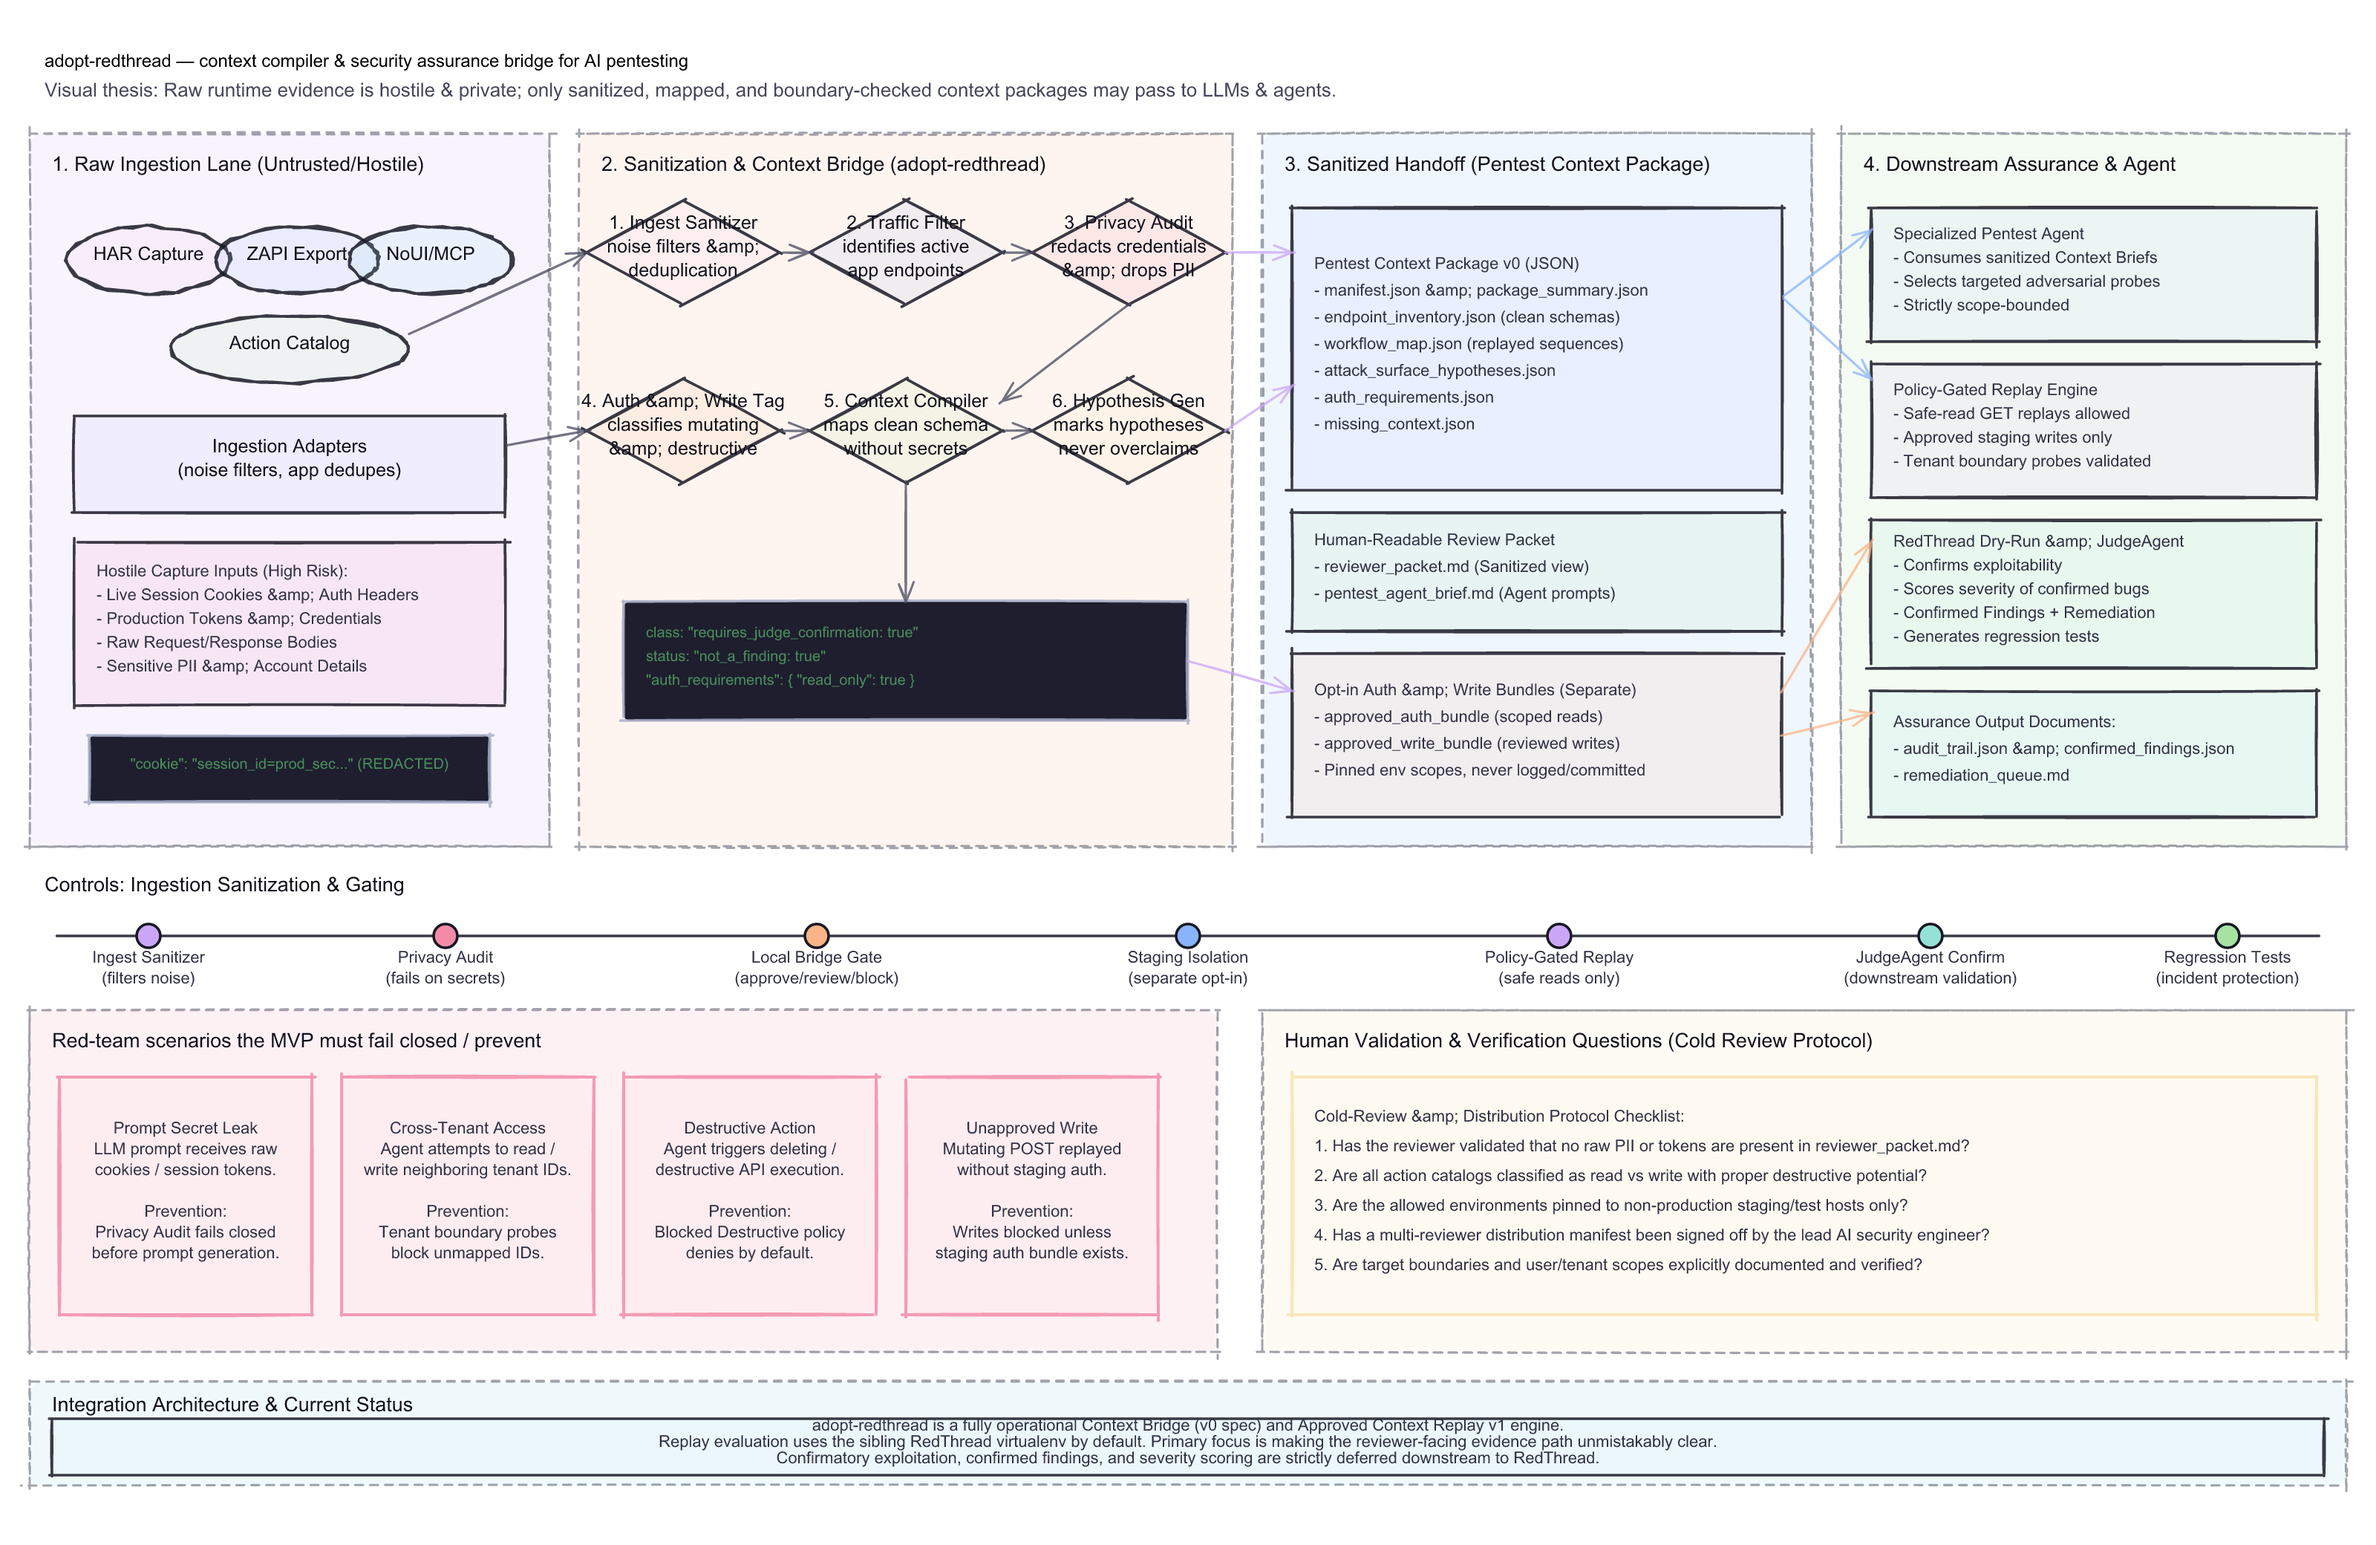
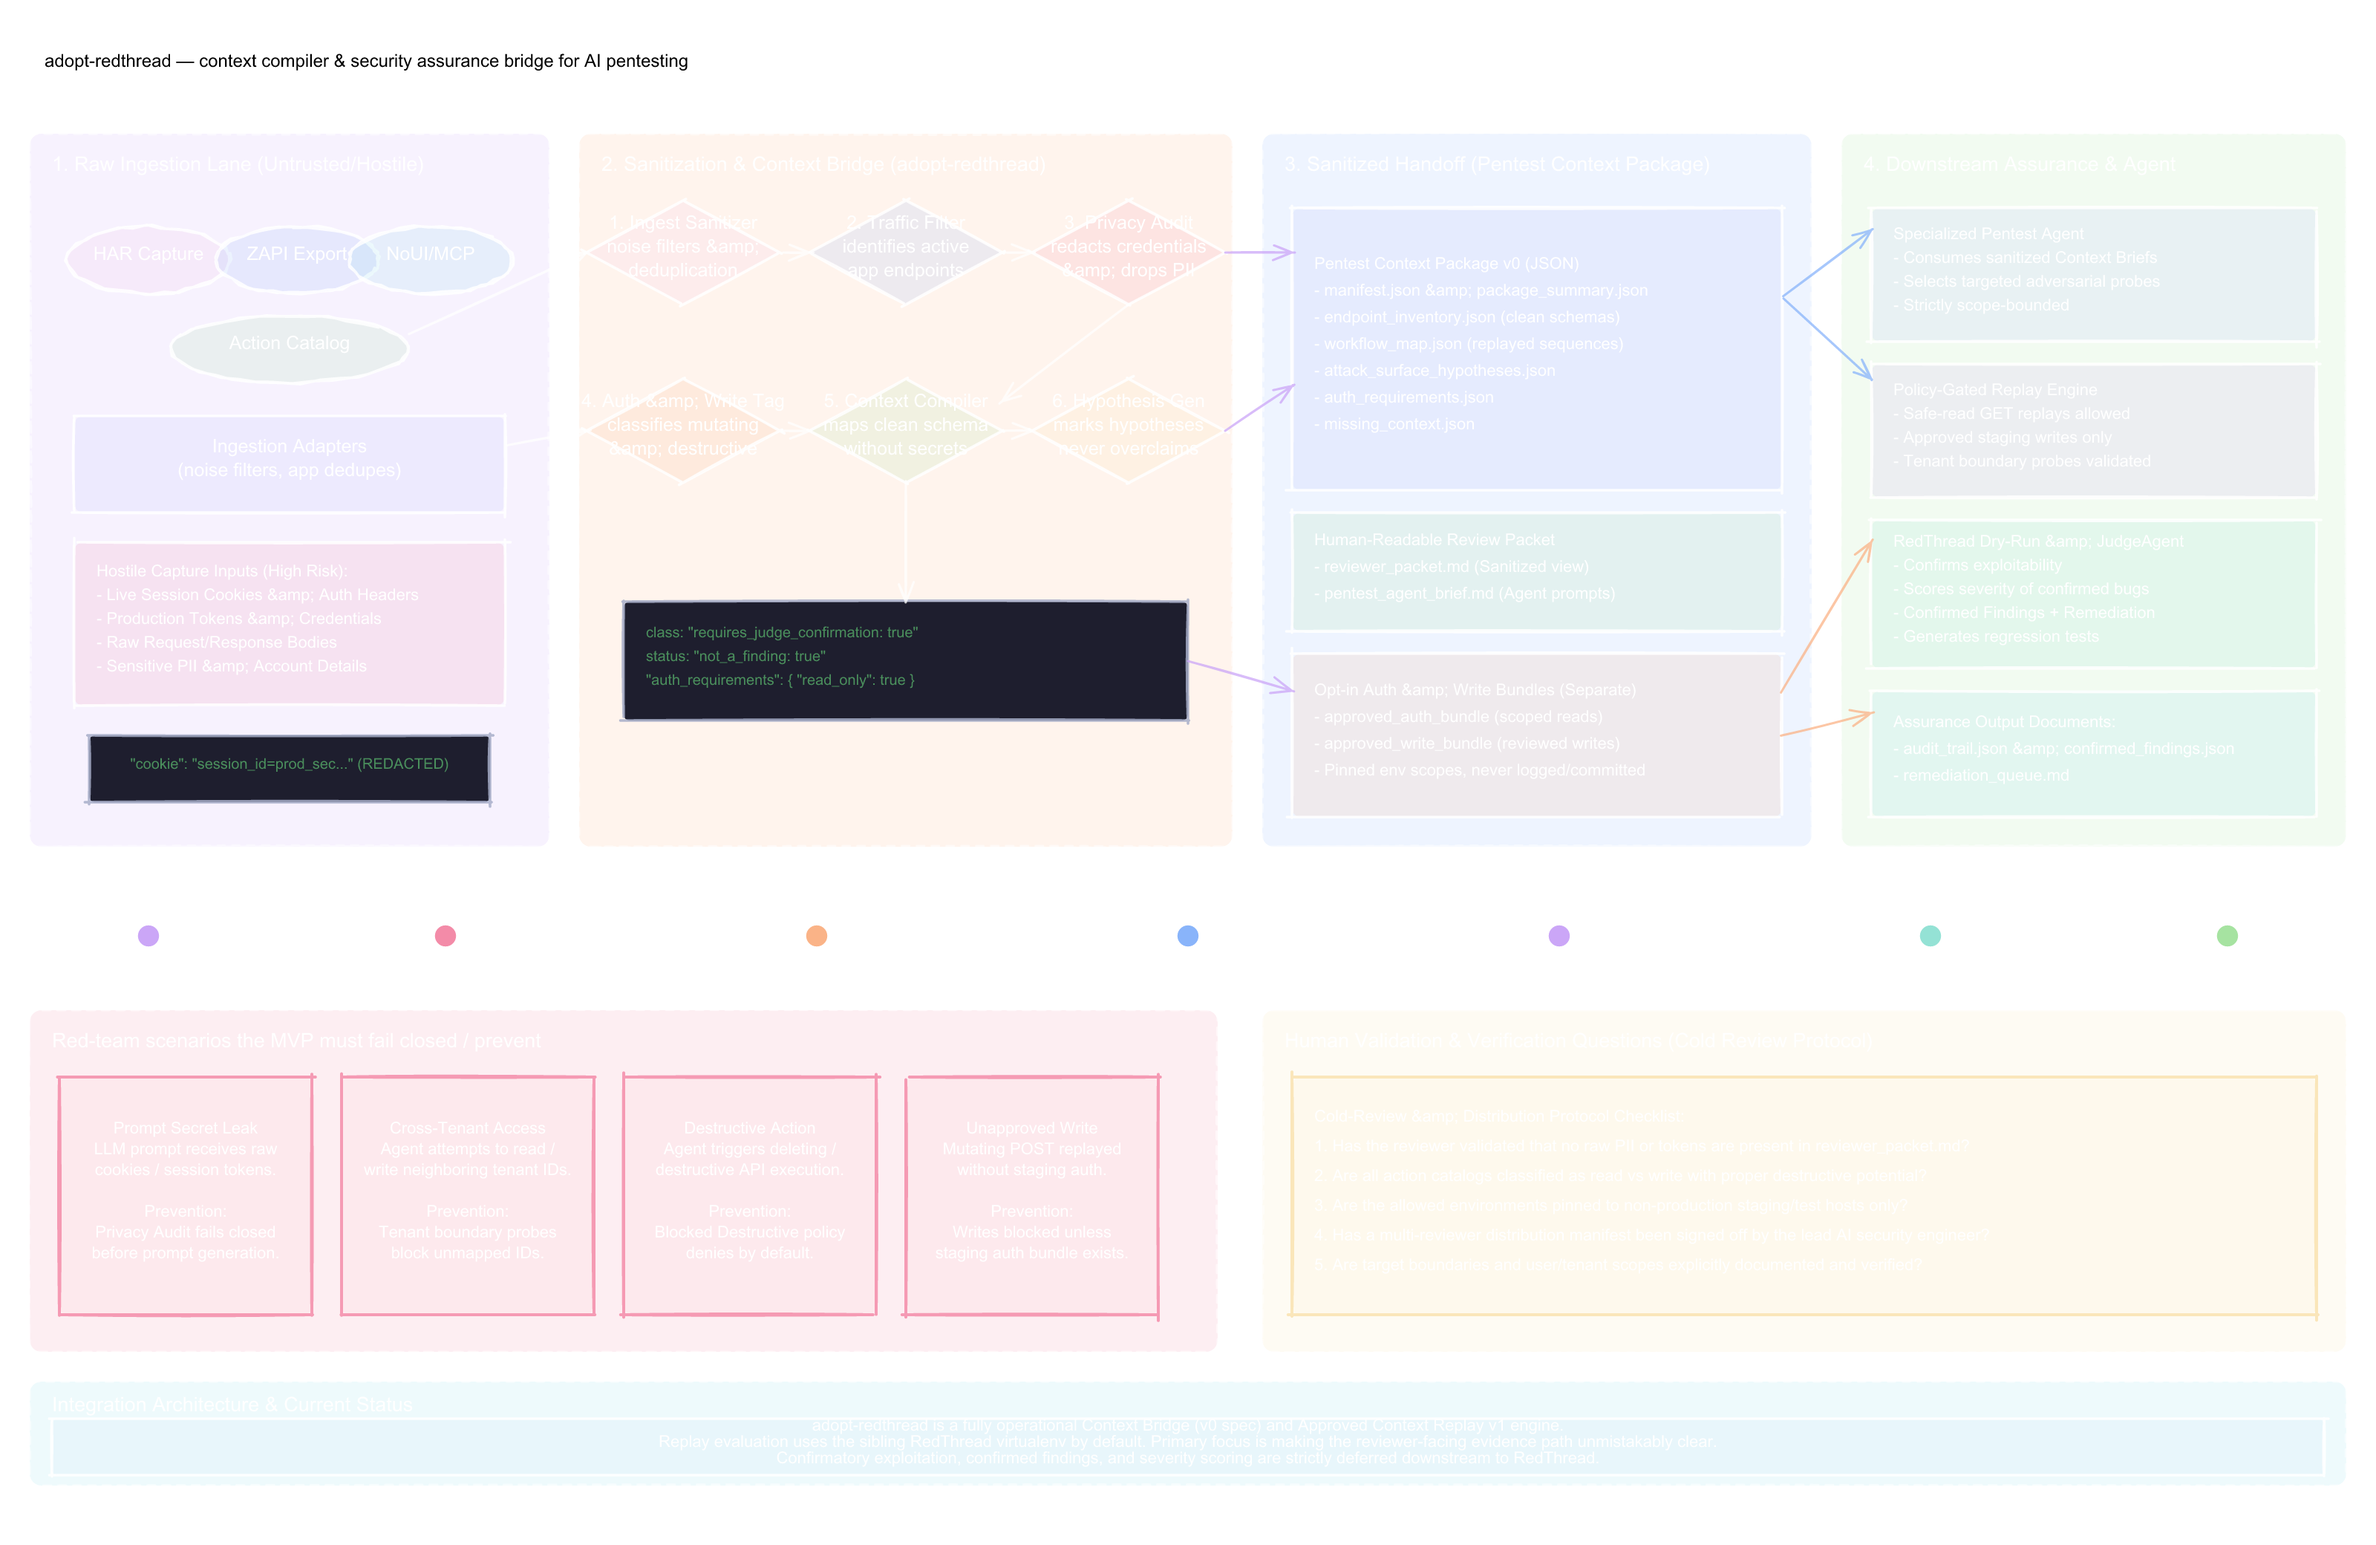
style: update diagram stroke colors to white for better visibility

diff --git a/scripts/generate_diagram.py b/scripts/generate_diagram.py
@@ -138,7 +138,7 @@ def make_excalidraw_rect(node_id, text, cx, cy, w, h, bg_color, textAlign="cente
         "width": w,
         "height": h,
         "angle": 0,
-        "strokeColor": "#181825",
+        "strokeColor": "#ffffff",
         "backgroundColor": bg_color,
         "fillStyle": "solid",
         "strokeWidth": 2,
@@ -175,7 +175,7 @@ def make_excalidraw_rect(node_id, text, cx, cy, w, h, bg_color, textAlign="cente
         "width": text_w,
         "height": text_height,
         "angle": 0,
-        "strokeColor": "#181825",
+        "strokeColor": "#ffffff",
         "backgroundColor": "transparent",
         "fillStyle": "solid",
         "strokeWidth": 1,
@@ -220,7 +220,7 @@ def make_excalidraw_ellipse(node_id, text, cx, cy, w, h, bg_color):
         "width": w,
         "height": h,
         "angle": 0,
-        "strokeColor": "#181825",
+        "strokeColor": "#ffffff",
         "backgroundColor": bg_color,
         "fillStyle": "solid",
         "strokeWidth": 2,
@@ -250,7 +250,7 @@ def make_excalidraw_ellipse(node_id, text, cx, cy, w, h, bg_color):
         "width": w - 20,
         "height": text_height,
         "angle": 0,
-        "strokeColor": "#181825",
+        "strokeColor": "#ffffff",
         "backgroundColor": "transparent",
         "fillStyle": "solid",
         "strokeWidth": 1,
@@ -295,7 +295,7 @@ def make_excalidraw_diamond(node_id, text, cx, cy, w, h, bg_color):
         "width": w,
         "height": h,
         "angle": 0,
-        "strokeColor": "#181825",
+        "strokeColor": "#ffffff",
         "backgroundColor": bg_color,
         "fillStyle": "solid",
         "strokeWidth": 2,
@@ -324,7 +324,7 @@ def make_excalidraw_diamond(node_id, text, cx, cy, w, h, bg_color):
         "width": w - 30,
         "height": text_height,
         "angle": 0,
-        "strokeColor": "#181825",
+        "strokeColor": "#ffffff",
         "backgroundColor": "transparent",
         "fillStyle": "solid",
         "strokeWidth": 1,
@@ -353,7 +353,7 @@ def make_excalidraw_diamond(node_id, text, cx, cy, w, h, bg_color):
     
     return [diamond_elem, text_elem]
 
-def make_excalidraw_arrow(arrow_id, x1, y1, x2, y2, strokeColor="#45475a"):
+def make_excalidraw_arrow(arrow_id, x1, y1, x2, y2, strokeColor="#ffffff"):
     seed = random.randint(100000, 999999)
     dx = x2 - x1
     dy = y2 - y1
@@ -394,7 +394,7 @@ def make_excalidraw_arrow(arrow_id, x1, y1, x2, y2, strokeColor="#45475a"):
         "endArrowhead": "arrow"
     }
 
-def make_excalidraw_line(line_id, x1, y1, x2, y2, strokeColor="#45475a", strokeStyle="solid"):
+def make_excalidraw_line(line_id, x1, y1, x2, y2, strokeColor="#ffffff", strokeStyle="solid"):
     seed = random.randint(100000, 999999)
     dx = x2 - x1
     dy = y2 - y1
@@ -447,7 +447,7 @@ def make_excalidraw_boundary(boundary_id, label, x, y, w, h):
         "width": w,
         "height": h,
         "angle": 0,
-        "strokeColor": "#585b70",
+        "strokeColor": "#ffffff",
         "backgroundColor": "transparent",
         "fillStyle": "solid",
         "strokeWidth": 1.5,
@@ -474,7 +474,7 @@ def make_excalidraw_boundary(boundary_id, label, x, y, w, h):
         "width": w - 30,
         "height": 20,
         "angle": 0,
-        "strokeColor": "#11111b",
+        "strokeColor": "#ffffff",
         "backgroundColor": "transparent",
         "fillStyle": "solid",
         "strokeWidth": 1,
@@ -519,7 +519,7 @@ def make_excalidraw_circle_marker(marker_id, text, cx, cy, diameter, bg_color):
         "width": diameter,
         "height": diameter,
         "angle": 0,
-        "strokeColor": "#181825",
+        "strokeColor": "#ffffff",
         "backgroundColor": bg_color,
         "fillStyle": "solid",
         "strokeWidth": 2,
@@ -548,7 +548,7 @@ def make_excalidraw_circle_marker(marker_id, text, cx, cy, diameter, bg_color):
         "width": 160,
         "height": text_height,
         "angle": 0,
-        "strokeColor": "#45475a",
+        "strokeColor": "#ffffff",
         "backgroundColor": "transparent",
         "fillStyle": "solid",
         "strokeWidth": 1,
@@ -610,12 +610,12 @@ def create_architecture_diagram():
         font-family: 'Architects Daughter', 'Comic Neue', sans-serif;
         font-size: 24px;
         font-weight: bold;
-        fill: #1e1e2e;
+        fill: #ffffff;
       }
       .main-subtitle {
         font-family: 'Architects Daughter', 'Comic Neue', sans-serif;
         font-size: 13px;
-        fill: #45475a;
+        fill: #ffffff;
         font-style: italic;
       }
       
@@ -623,17 +623,17 @@ def create_architecture_diagram():
         font-family: 'Architects Daughter', 'Comic Neue', 'Comic Sans MS', sans-serif;
         font-size: 12.5px;
         font-weight: bold;
-        fill: #11111b;
+        fill: #ffffff;
       }
       
       .label-text {
         font-family: 'Architects Daughter', 'Comic Neue', 'Comic Sans MS', sans-serif;
         font-size: 11px;
-        fill: #313244;
+        fill: #ffffff;
       }
       
       .sketch-stroke {
-        stroke: #181825;
+        stroke: #ffffff;
         stroke-width: 1.8;
         fill: none;
         stroke-linecap: round;
@@ -642,7 +642,7 @@ def create_architecture_diagram():
       }
       
       .sketch-stroke-arrow {
-        stroke: #45475a;
+        stroke: #ffffff;
         stroke-width: 1.5;
         fill: none;
         stroke-linecap: round;
@@ -652,14 +652,14 @@ def create_architecture_diagram():
       
       .sketch-fill {
         stroke: none;
-        opacity: 0.12;
+        opacity: 0.15;
       }
       
       .group-label {
         font-family: 'Architects Daughter', 'Comic Neue', 'Comic Sans MS', sans-serif;
         font-size: 13.5px;
         font-weight: bold;
-        fill: #11111b;
+        fill: #ffffff;
       }
     </style>
   </defs>""")
@@ -936,7 +936,7 @@ def create_architecture_diagram():
     ]
     for mid, text, mcx, mcy, mcolor in markers:
         # SVG circle and text
-        svg.append(f'  <circle cx="{mcx}" cy="{mcy}" r="8" fill="{mcolor}" stroke="#181825" stroke-width="1.8" />')
+        svg.append(f'  <circle cx="{mcx}" cy="{mcy}" r="8" fill="{mcolor}" stroke="#ffffff" stroke-width="1.8" />')
         lines_marker = text.split("\n")
         draw_svg_text(svg, lines_marker, mcx, mcy + 25, line_height=14, is_title=False)
         
@@ -1069,17 +1069,17 @@ def create_flow_diagram():
         font-family: 'Architects Daughter', 'Comic Neue', 'Comic Sans MS', sans-serif;
         font-size: 13px;
         font-weight: bold;
-        fill: #11111b;
+        fill: #ffffff;
       }
       
       .label-text {
         font-family: 'Architects Daughter', 'Comic Neue', 'Comic Sans MS', sans-serif;
         font-size: 11px;
-        fill: #313244;
+        fill: #ffffff;
       }
       
       .sketch-stroke {
-        stroke: #181825;
+        stroke: #ffffff;
         stroke-width: 1.8;
         fill: none;
         stroke-linecap: round;
@@ -1088,7 +1088,7 @@ def create_flow_diagram():
       }
       
       .sketch-stroke-arrow {
-        stroke: #45475a;
+        stroke: #ffffff;
         stroke-width: 1.5;
         fill: none;
         stroke-linecap: round;
@@ -1105,7 +1105,7 @@ def create_flow_diagram():
         font-family: 'Architects Daughter', 'Comic Neue', 'Comic Sans MS', sans-serif;
         font-size: 14px;
         font-weight: bold;
-        fill: #11111b;
+        fill: #ffffff;
       }
     </style>
   </defs>""")
